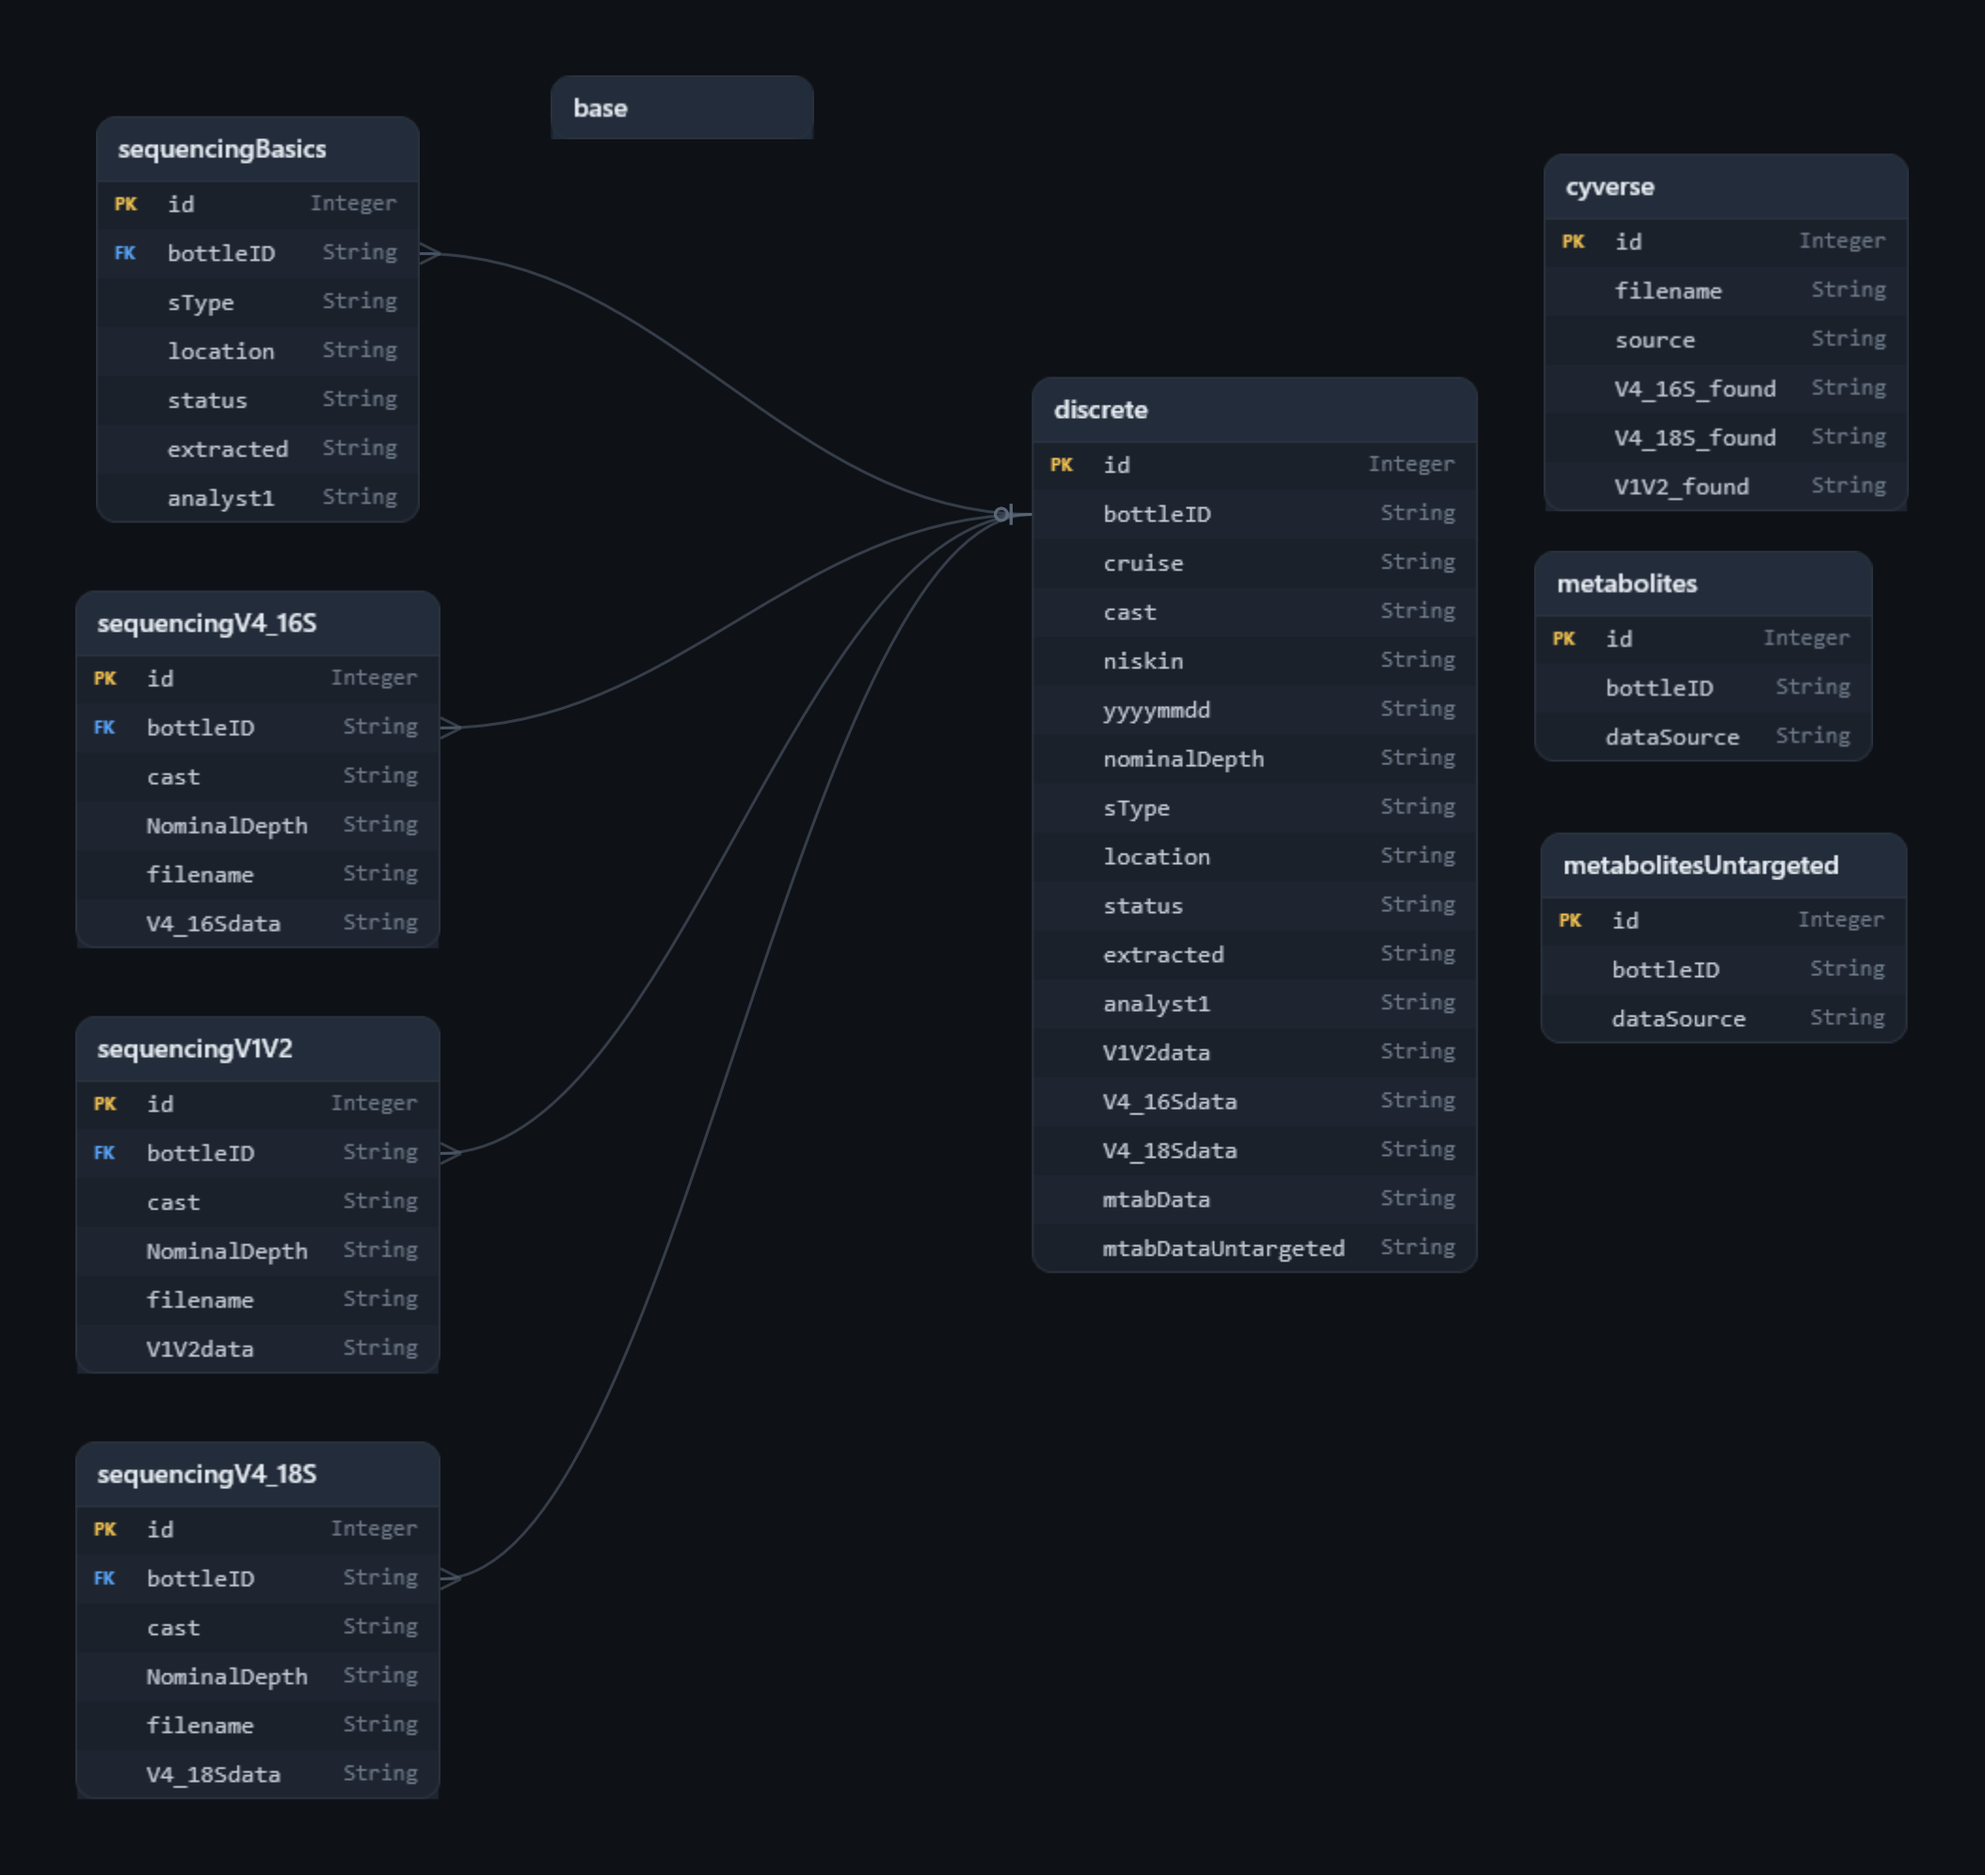
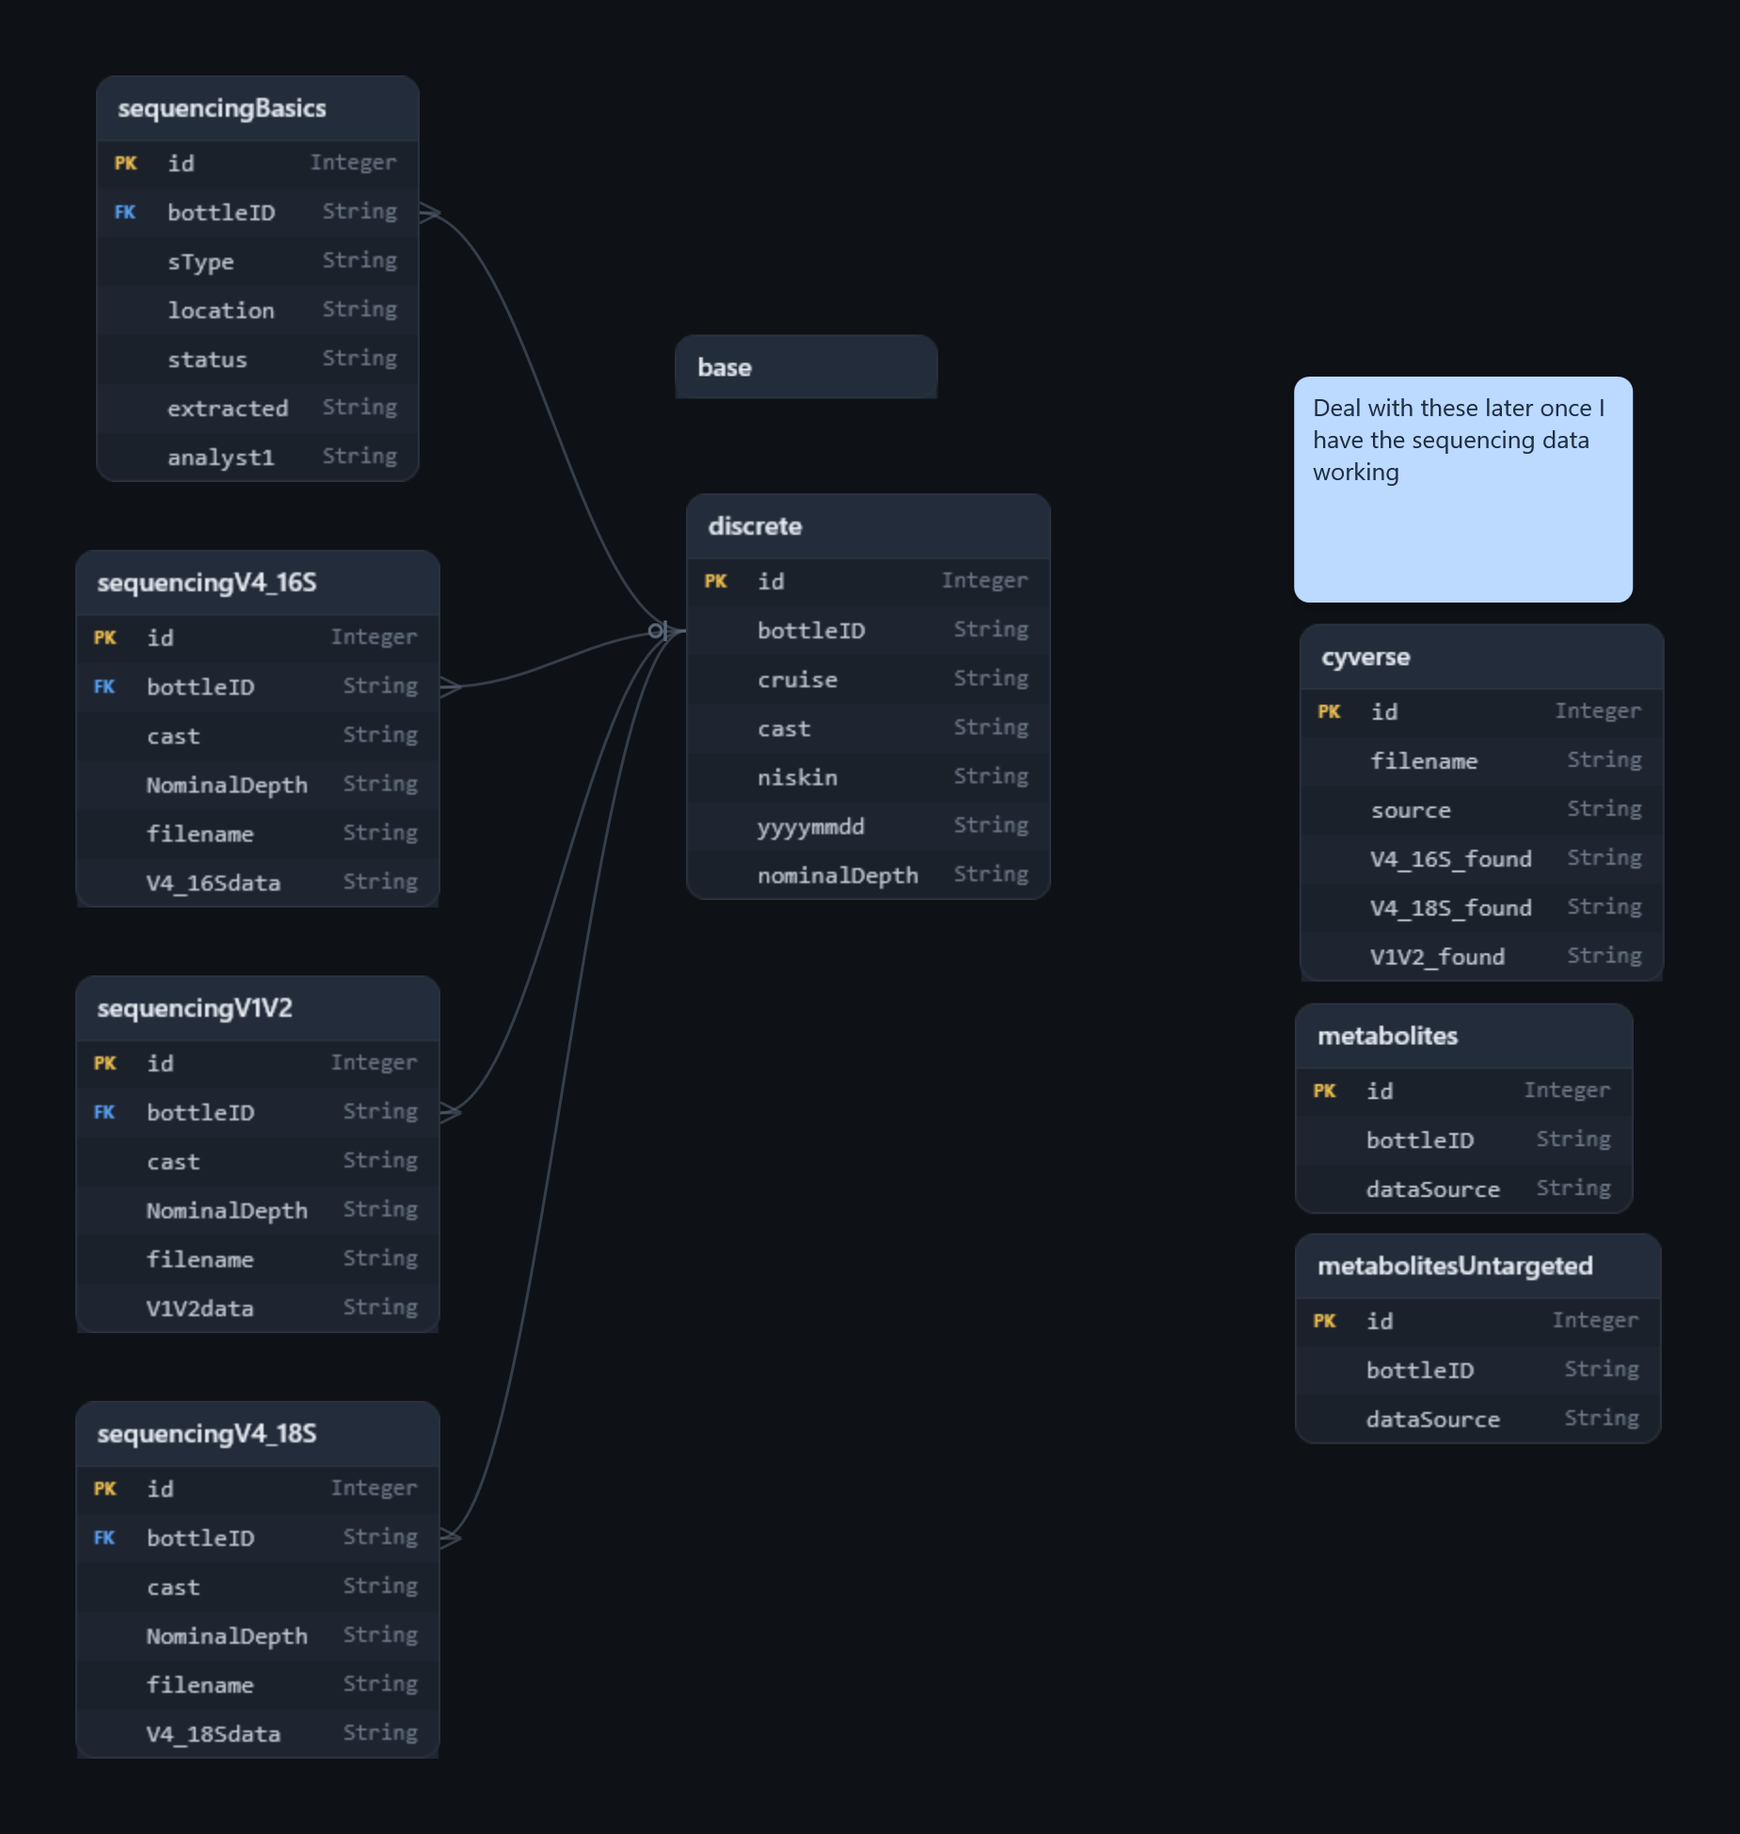
update schema

diff --git a/models.py b/models.py
@@ -10,6 +10,7 @@ from typing import Optional
 Setting up the models to use with the BIOS-SCOPE dataset
 Krista Longnecker, 6 April 2026
 Krista Longnecker, 27 June 2026
+Krista Longnecker, 31 August 2026 --> ready to make this a relational database with defined links
 '''
 
 class Base(DeclarativeBase):
@@ -30,33 +31,31 @@ class DiscreteInfo(Base):
     yyyymmdd: Mapped[str] = mapped_column(String)
     nominalDepth: Mapped[str] = mapped_column(String)
     
-    # also add in empty columns for the pieces I am adding based on matches (e.g., not just what is in the discrete file)
-    sType: Mapped[Optional[str]] = mapped_column(String, default=None)
-    location: Mapped[Optional[str]] = mapped_column(String, default=None)
-    status: Mapped[Optional[str]] = mapped_column(String, default=None)
-    extracted: Mapped[Optional[str]] = mapped_column(String, default=None)
-    analyst1: Mapped[Optional[str]] = mapped_column(String, default=None)
-    V1V2data: Mapped[Optional[str]] = mapped_column(String, default=None)
-    V4_16Sdata: Mapped[Optional[str]] = mapped_column(String, default=None)
-    V4_18Sdata: Mapped[Optional[str]] = mapped_column(String, default=None)
-    mtabData: Mapped[Optional[str]] = mapped_column(String, default=None)
-    mtabDataUntargeted: Mapped[Optional[str]] = mapped_column(String, default=None)  
+    # # also add in empty columns for the pieces I am adding based on matches (e.g., not just what is in the discrete file)
+    # # I think these can be linked from other places and found by query (8/31/2026...working)
+    # sType: Mapped[Optional[str]] = mapped_column(String, default=None)
+    # location: Mapped[Optional[str]] = mapped_column(String, default=None)
+    # status: Mapped[Optional[str]] = mapped_column(String, default=None)
+    # extracted: Mapped[Optional[str]] = mapped_column(String, default=None)
+    # analyst1: Mapped[Optional[str]] = mapped_column(String, default=None)
+    # V1V2data: Mapped[Optional[str]] = mapped_column(String, default=None)
+    # V4_16Sdata: Mapped[Optional[str]] = mapped_column(String, default=None)
+    # V4_18Sdata: Mapped[Optional[str]] = mapped_column(String, default=None)
+    # mtabData: Mapped[Optional[str]] = mapped_column(String, default=None)
+    # mtabDataUntargeted: Mapped[Optional[str]] = mapped_column(String, default=None)  
     
     # =========================================================================
-    # RELATIONSHIPS (These don't create database columns; they are Python-only shortcuts)
+    # RELATIONSHIPS (think of these as shortcuts in Python)
     # =========================================================================
     # 1-to-1 relationship with SeqInfoBasics
     seq_basics: Mapped[Optional["SeqInfoBasics"]] = relationship(back_populates="parent_discrete")
     
-    # 1-to-Many relationship (Assuming a bottle could have multiple V4 rows) ...think if that is true
-    #by making this a list...get pull multiple rows
+    # 1-to-Many relationship (Assuming a bottle could have multiple V4 rows): need list to get multiple rows
     v4_16s_runs: Mapped[list["SeqInfoV4_16S"]] = relationship("SeqInfoV4_16S", back_populates="parent_discrete")   
     v4_18s_runs: Mapped[list["SeqInfoV4_18S"]] = relationship("SeqInfoV4_18S",back_populates="parent_discrete")
     v1v2_runs: Mapped[list["SeqInfoV1V2"]] = relationship("SeqInfoV1V2",back_populates="parent_discrete")
-
     
-    
-    #need this next row to get the nice output (other get a generic thing ?: <__main__.DiscreteInfo object at 0x000001A3FC7A0F70>)
+    #need this next row to get the nice output (otherwise get a generic thing ?: <__main__.DiscreteInfo object at 0x000001A3FC7A0F70>)
     def __repr__(self):
         return f"<DiscreteInfo(bottleID='{self.bottleID}', cruise='{self.cruise}')>"
 
@@ -85,7 +84,7 @@ class SeqInfoV4_16S(Base):
     NominalDepth: Mapped[Optional[str]] = mapped_column(String, default=None)
     filename: Mapped[Optional[str]] = mapped_column(String, default=None)
     V4_16Sdata: Mapped[Optional[str]] = mapped_column(String, default=None)
-    # Use this to note the parent class string, expects a single optional object
+    # set the relationship to DiscreteInfo:
     parent_discrete: Mapped[list["DiscreteInfo"]] = relationship("DiscreteInfo",back_populates="v4_16s_runs")
 
     def __repr__(self) -> str:

diff --git a/populate_db.py b/populate_db.py
@@ -46,7 +46,7 @@ models.Base.metadata.create_all(engine)
 # # define the functions needed to run this script
    
 def delete_db():
-    print('Deleting database: does not work nicely with Jupyter notebook script open')
+    print('Deleting database: will not work if using a Jupyter notebook')
     db_path = 'test_data/sargssso.db'
     if os.path.exists(db_path):
         os.unlink(db_path)
@@ -58,7 +58,7 @@ def trimSuffix(one):
 def load_discrete_info(data_dir,fName):
     print('Loading discrete sample information')
     #data_dir = 'test_data/'
-    #send fName into the function
+    #send fName into the function (see below...tired of updating for each function
     #fName = 'BATS_BS_COMBINED_MASTER_mini.xlsx' #use mini for testing
     #print('NOTE: using mini database for testing')
     #fName = 'BATS_BS_COMBINED_MASTER_latest.xlsx'
